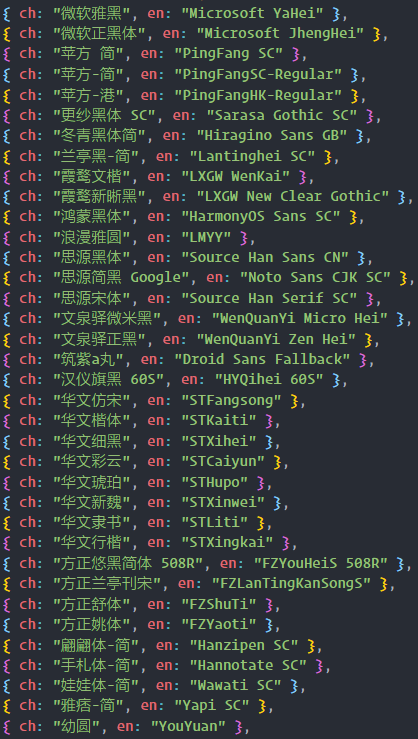
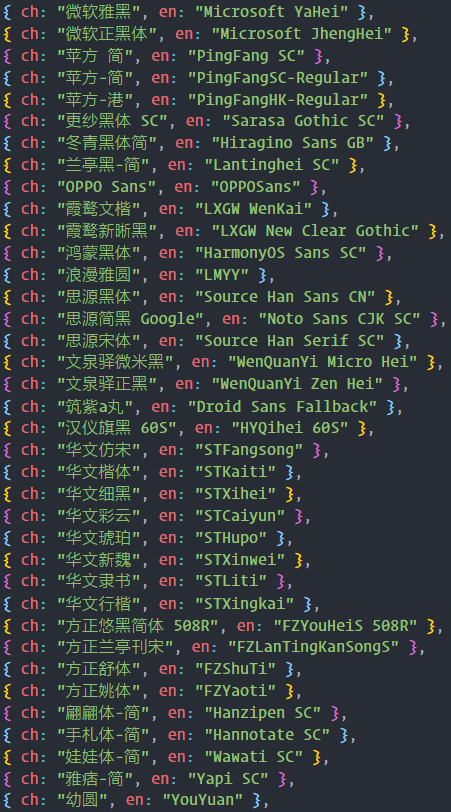
update

Changed region(s): [[0.0, 0.0, 0.9952, 0.9959]]

diff --git a/Font Rendering.user.js b/Font Rendering.user.js
@@ -4,7 +4,7 @@
 // @name:zh           字体渲染（自用脚本）
 // @name:zh-TW        字體渲染（自用腳本）
 // @name:en           Font Rendering (Customized)
-// @version           2021.07.30.1
+// @version           2021.08.03.1
 // @author            F9y4ng
 // @description       让每个页面的字体变得有质感，默认使用微软雅黑字体，亦可自定义设置多种中文字体，附加字体描边、字体重写、字体阴影、字体平滑、对特殊样式元素的过滤和许可等效果，脚本菜单中可使用设置界面进行参数设置，亦可对某域名下所有页面进行排除渲染。
 // @description:zh    让每个页面的字体变得有质感，默认使用微软雅黑字体，亦可自定义设置多种中文字体，附加字体描边、字体重写、字体阴影、字体平滑、对特殊样式元素的过滤和许可等效果，脚本菜单中可使用设置界面进行参数设置，亦可对某域名下所有页面进行排除渲染。
@@ -24,6 +24,7 @@
 // @grant           GM.setValue
 // @grant           GM_deleteValue
 // @grant           GM.deleteValue
+// @compatible      edge 兼容TamperMonkey, ViolentMonkey
 // @compatible      Chrome 兼容TamperMonkey, ViolentMonkey
 // @compatible      Firefox 兼容Greasemonkey, TamperMonkey, ViolentMonkey
 // @compatible      Opera 兼容TamperMonkey, ViolentMonkey
@@ -1521,6 +1522,7 @@
     { ch: "更纱黑体 SC", en: "Sarasa Gothic SC" },
     { ch: "冬青黑体简", en: "Hiragino Sans GB" },
     { ch: "兰亭黑-简", en: "Lantinghei SC" },
+    { ch: "OPPO Sans", en: "OPPOSans" },
     { ch: "霞鹜文楷", en: "LXGW WenKai" },
     { ch: "霞鹜新晰黑", en: "LXGW New Clear Gothic" },
     { ch: "鸿蒙黑体", en: "HarmonyOS Sans SC" },
@@ -1605,7 +1607,7 @@
     fontShadow: browser.versions.webKit ? 2.0 : 1.5,
     shadowColor: "#7B7B7B",
     fontSmooth: true,
-    fontCSS: `:not([class*='fa']):not([class*='icon']):not([class*='logo']):not([class*='code'])`,
+    fontCSS: `:not(input):not(textarea):not(button):not(em):not(i):not([class*='fa']):not([class*='icon']):not([class*='logo']):not([class*='code'])`,
     fontEx: `* pre,* pre *,* code,* code *,* input,* button,* textarea,* kbd,* i,* em`,
   };
   const root = `\u8ab1\u004a\u0056\u0069\u0059\u7409\u67d3\u5b7a\u80ba\u0070\u0032\u004f\u64d3\u0030\u8151\u0074\u5c80\u5b9a\u81ba\u0065`;
@@ -1668,7 +1670,7 @@
     } else {
       debug("//-> %cGood data status", "color:green");
     }
-    // Get Promise Value
+
     let fonts = await GMgetValue("_fonts_set_");
     let exSite = await GMgetValue("_Exclude_site_");
     let domains = await GMgetValue("_domains_fonts_set_");
@@ -1802,6 +1804,10 @@
     if (!isNaN(stroke_r) && stroke_r > 0 && stroke_r <= 1.0) {
       stroke = `text-stroke:${stroke_r}px currentcolor;-webkit-text-stroke:${stroke_r}px currentcolor;`;
     }
+    let selection = "";
+    if (stroke) {
+      selection = `::selection{color:#ffffff!important;background:#338fff!important}`;
+    }
     let smoothing = "";
     const smooth_i = CONST.fontSmooth;
     if (smooth_i) {
@@ -1833,7 +1839,7 @@
     const cssfun = CONST.fontCSS;
     let tshadow = "";
     if (defCon.siteIndex === undefined) {
-      tshadow = `${codeFont}${cssfun}{${shadow}${stroke}${smoothing}${fontfamily}}${fontfaces}${exclude}`;
+      tshadow = `${codeFont}${selection}${cssfun}{${shadow}${stroke}${smoothing}${fontfamily}}${fontfaces}${exclude}`;
     }
     const fontStyle_db = `.${defCon.class.db}{max-width:420px;color:#444;z-index:999999992;border:2px solid #efefef}.${defCon.class.db} *{line-height:1.5!important;font-family:"Microsoft YaHei",sans-serif!important;text-stroke:initial!important;-webkit-text-stroke:initial!important;text-shadow:0 0 1px #7b7b7b!important}.${defCon.class.db}{display:block;overflow:hidden;position:fixed;top:45%;right:-200px;-webkit-border-radius:6px;border-radius:6px;width:100%;background:#fff;-webkit-box-shadow:0 0 10px 0 rgba(0,0,0,.3);box-shadow:0 0 10px 0 rgba(0,0,0,.3);transition:opacity .3s;transform:translate(-50%,-50%)}.${defCon.class.db} .${defCon.class.dbt},.${defCon.class.dbb},.${defCon.class.dbb}:hover{text-shadow:initial!important;-webkit-text-stroke:initial!important;text-stroke:initial!important}.${defCon.class.dbbf},.${defCon.class.dbbf}:hover{background:#d93223;color:#fff!important;border:1px solid #d93223;-webkit-border-radius:6px;border-radius:6px;font-size:14px!important}.${defCon.class.dbbt},.${defCon.class.dbbt}:hover{background:#038c5a;color:#fff!important;border:1px solid #038c5a;-webkit-border-radius:6px;border-radius:6px;font-size:14px!important}.${defCon.class.dbbn},.${defCon.class.dbbn}:hover{background:#777;color:#fff!important;border:1px solid #777;-webkit-border-radius:6px;border-radius:6px;font-size:14px!important}.${defCon.class.dbm}{color:#444;padding:10px;margin:5px;font-size:16px;font-weight:300;text-align:left}.${defCon.class.dbm} p{line-height:160%;margin:5px 0;text-indent:0em!important;font-size:16px;font-weight:400;text-align:left}.${defCon.class.dbm} ul{list-style:none;margin: 5px 0 0 15px;padding:2px;font:italic 14px/140% "Microsoft YaHei";color:grey}.${defCon.class.dbm} li{list-style-type:square;}.${defCon.class.dbt}{background:#efefef;margin-top:0;padding:12px;font-size:20px;font-weight:700;text-align:left;width:100%}.${defCon.class.dbb}{display:inline-block;margin:0 1%;-webkit-border-radius:2px;border-radius:4px;padding:8px 12px;min-width:12%;font-weight:400;text-align:center;letter-spacing:0;transition:opacity .5s;cursor:pointer;-webkit-box-sizing:content-box;box-sizing:content-box}.${defCon.class.dbb}:hover{color:#fff;opacity:.8;font-weight:900;text-decoration:none!important}.${defCon.class.dbbc}{text-align:right;padding:2.5%;background:#efefef;color:#fff}.${defCon.class.anim}{-webkit-animation:jiggle 1.8s ease-in infinite;animation:jiggle 1.8s ease-in infinite;border:2px solid crimson!important;background:crimson!important}@keyframes jiggle{48%,62%{transform:scale(1,1)}50%{transform:scale(1.1,.9)}56%{transform:scale(.9,1.1) translate(0,-5px)}59%{transform:scale(1,1) translate(0,-3px)}}#${defCon.id.bk},#${defCon.id.pv},#${defCon.id.mps},${defCon.id.feedback}{padding:2px 10px;height:40px;width:max-content;min-width:auto}`;
     const fontStyle_container = `#${defCon.id.rndId}{width:100%;height:100%;background:transparent;position:fixed;top:0;left:0;z-index:999999991}body #${defCon.id.container}{position:fixed;top:10px;right:24px;-webkit-border-radius:6px;border-radius:6px;background:#f0f6ff!important;-webkit-box-sizing:content-box;box-sizing:content-box}#${defCon.id.container}{transform:scale3d(1,1,1);width:auto;overflow-y:auto;overflow-x:hidden;min-height:10%;max-height:calc(100% - 20px);z-index:999999;padding:3px 8px;text-align:left;color:#333;font-size:16px;font-weight:900;-webkit-transition:all .1s ease-in;transition:all .1s ease-in;scrollbar-color:#369 rgba(0,0,0,.25);scrollbar-width:thin}#${defCon.id.container}::-webkit-scrollbar{width:10px;height:1px}#${defCon.id.container}::-webkit-scrollbar-thumb{border-radius:10px;box-shadow:inset 0 0 5px #67a5df;background:#369}#${defCon.id.container}::-webkit-scrollbar-track{box-shadow:inset 0 0 5px #67a5df;border-radius:10px;background:#ededed}#${defCon.id.container} *{line-height:1.5!important;font-size:16px;font-weight:700;font-family:"Microsoft YaHei",sans-serif!important;text-shadow:initial!important;-webkit-text-stroke:initial!important;text-stroke:initial!important}#${defCon.id.container} fieldset{border:2px groove #67a5df;-webkit-border-radius:10px;border-radius:10px;padding:4px 9px;margin:2px;background:#f0f6ff!important;display:block;width:auto;height:auto;min-height:500px}#${defCon.id.container} legend{line-height:20px;padding:0 8px;border:0!important;margin-bottom:0;font-size:16px;font-weight:700;font-family:"Microsoft YaHei",sans-serif!important;background:#f0f6ff!important;-webkit-box-sizing:content-box;box-sizing:content-box;width:auto!important;min-width:185px!important}#${defCon.id.container} fieldset ul{padding:0;margin:0;background:#f0f6ff!important}#${defCon.id.container} ul li{list-style:none;margin:3px 0;-webkit-box-sizing:content-box;box-sizing:content-box;border:none;float:none;background:#f0f6ff!important;cursor:default}#${defCon.id.container} .${defCon.class.help}{width:24px;height:24px;fill:#67a5df;overflow:hidden;}#${defCon.id.container} .${defCon.class.title} .${defCon.class.guide}{display:inline-block;position:fixed;cursor:pointer}@keyframes rotation{from{-webkit-transform:rotate(0)}to{-webkit-transform:rotate(360deg)}}.${defCon.class.title} .${defCon.class.rotation}{width:24px;height:24px;top:auto;right:auto;bottom:auto;left:auto;transform-origin:center 50%;-webkit-transform:rotate(360deg);-webkit-animation:rotation 5s linear infinite;-o-animation:rotation 5s linear infinite;animation:rotation 5s linear infinite}#${defCon.id.fontList}{padding:2px 10px 4px 6px;min-height:75px}#${defCon.id.fontFace},#${defCon.id.fontSmooth}{padding:2px 10px;height:40px;width:calc(100% - 18px);min-width:auto;display:flex;align-items:center;justify-content:space-between}#${defCon.id.shadowColor}{padding:2px 10px;min-height:45px;margin:4px;width:max-content}#${defCon.id.shadowColor} *{-webkit-box-sizing:content-box;box-sizing:content-box}#${defCon.id.cps}{float:left;display:block;margin:0}#${defCon.id.shadowColor} .${defCon.class.colorPicker}{width:32px;height:30px;cursor:pointer;position:relative;border:2px solid #181a25;-webkit-border-radius:4px;border-radius:4px;float:left;display:inline-block}#${defCon.id.shadowColor} .${defCon.class.colorPicker2}{display:inline-block;width:auto;margin:0 0 0 5px}#${defCon.id.shadowColor} .${defCon.class.colorPicker2} #${defCon.id.color}{width:135px;height:32px;text-indent:0;font-size:18px;font-weight:400;background:#fafafa;-webkit-box-sizing:content-box;box-sizing:content-box;font-family:Impact,"Courier New",sans-serif!important;color:#333;border:#67a5df 2px solid;-webkit-border-radius:4px;border-radius:4px;display:inline-block;padding:0;margin:0;text-align:center}#${defCon.id.fontShadow}{padding:2px 10px;height:60px}#${defCon.id.fontStroke}{padding:2px 10px;height:60px}#${defCon.id.submit}{padding:2px 10px;height:40px}#${defCon.id.submit} button{background-image:initial;background-color:#67a5df;color:#fff;padding:5px 10px;font-size:14px;font-weight:600;cursor:pointer;border:2px solid #6ba7e0;-webkit-border-radius:6px;border-radius:6px;width:auto;font-family:"Microsoft YaHei",sans-serif!important}#${defCon.id.backup}{margin:0 10px 0 0}#${defCon.id.backup}, #${defCon.id.files}{display:none}#${defCon.id.submit} .${defCon.class.cancel},#${defCon.id.submit} .${defCon.class.reset}{float:left;margin-right:10px}#${defCon.id.submit} .${defCon.class.submit}{float:right}#${defCon.id.fontCSS},#${defCon.id.fontEx}{padding:2px 10px;min-height:110px}#${defCon.id.fontEx} textarea{background:#fafafa}#${defCon.id.fontCSS} textarea,#${defCon.id.fontEx} textarea{min-width:calc(100% - 15px);max-width:calc(100% - 15px)!important;min-height:60px;line-height:140%;resize:none;border:2px solid #67a5df;-webkit-border-radius:6px;border-radius:6px;-webkit-box-sizing:content-box;box-sizing:content-box;padding:5px;font:bold 14px/140% "Roboto Mono",Monaco,"Courier New",sans-serif!important;color:#0b5b9c;scrollbar-color:#369 rgba(0,0,0,.25);scrollbar-width:thin}#${defCon.id.fontCSS} textarea::-webkit-scrollbar{width:10px;height:1px}#${defCon.id.fontCSS} textarea::-webkit-scrollbar-thumb{border-radius:10px;box-shadow:inset 0 0 5px #67a5df;background:#369}#${defCon.id.fontCSS} textarea::-webkit-scrollbar-track{box-shadow:inset 0 0 5px rgba(0,0,0,.2);border-radius:10px;background:#ededed}#${defCon.id.fontEx} textarea::-webkit-scrollbar{width:10px;height:1px}#${defCon.id.fontEx} textarea::-webkit-scrollbar-thumb{border-radius:10px;box-shadow:inset 0 0 5px #67a5df;background:#369}#${defCon.id.fontEx} textarea::-webkit-scrollbar-track{box-shadow:inset 0 0 5px #67a5df;border-radius:10px;background:#ededed}#${defCon.id.fontList} .${defCon.class.selector} a{font-weight:400;color:#111;text-decoration:none}#${defCon.id.fontList} .${defCon.class.label}{display:block;float:left;margin:2px 5px 2px 0;-webkit-box-sizing:content-box;box-sizing:content-box;border:initial;-webkit-border-radius:2px;border-radius:2px;padding:2px 0;height:24px;font-weight:400;line-height:20px;color:#fff;background:#67a5df}#${defCon.id.fontList} .${defCon.class.label} span{color:#fff;font-size:16px;font-weight:normal;padding:5px;background:#67a5df}#${defCon.id.fontList} .${defCon.class.close}{padding:5px!important;color:#fff;background:#67a5df;-webkit-box-sizing:content-box;box-sizing:content-box}#${defCon.id.fontList} .${defCon.class.close}:hover{-webkit-border-radius:2px;border-radius:2px;color:tomato;background-color:#366694}#${defCon.id.fontList} .${defCon.class.selectFontId}{width:auto}#${defCon.id.fontList} .${defCon.class.selectFontId} label{width:auto;display:block;margin:5px 0;color:#333;cursor:initial}#${defCon.id.fontList} .${defCon.class.selectFontId} input{-webkit-box-sizing:content-box;box-sizing:content-box;border:2px solid #67a5df;-webkit-border-radius:6px;border-radius:6px;padding:1px 23px!important;margin:0;width:calc(100% - 48px);max-width:calc(100% - 48px);height:36px!important;font-family:"Microsoft YaHei",sans-serif!important;font-size:16px;font-weight:700;text-indent:0;background:#fafafa;outline-color:#67a5df}#${defCon.id.fontList} .${defCon.class.selectFontId} input[disabled]{pointer-events:none!important}.${defCon.class.placeholder} input:-moz-placeholder{color:#369!important;font-family:"Microsoft YaHei",sans-serif!important;font-size:16px;font-weight:700;opacity:.65}.${defCon.class.placeholder}::-moz-placeholder{color:#369!important;font-family:"Microsoft YaHei",sans-serif!important;font-size:16px;font-weight:700;opacity:.65}.${defCon.class.placeholder}::-webkit-input-placeholder{color:#369!important;font-family:"Microsoft YaHei",sans-serif!important;font-size:16px;font-weight:700;opacity:.65}#${defCon.id.fontList} .${defCon.class.selectFontId} dl{overflow-x:hidden;position:fixed;z-index:1000;margin:8px 0 0 0;-webkit-box-sizing:content-box;box-sizing:content-box;border:2px solid #67a5df;-webkit-border-radius:4px;border-radius:4px;padding:4px 10px;width:auto;min-width:170px;max-width:252px;max-height:250px;font-size:18px;white-space:nowrap;background-color:#fff;scrollbar-color:#369 rgba(0,0,0,.25);scrollbar-width:thin}#${defCon.id.fontList} .${defCon.class.selectFontId} dl::-webkit-scrollbar{width:10px;height:1px}#${defCon.id.fontList} .${defCon.class.selectFontId} dl::-webkit-scrollbar-thumb{border-radius:10px;box-shadow:inset 0 0 5px #67a5df;background:#369}#${defCon.id.fontList} .${defCon.class.selectFontId} dl::-webkit-scrollbar-track{box-shadow:inset 0 0 5px #67a5df;border-radius:10px;background:#ededed}#${defCon.id.fontList} .${defCon.class.selectFontId} dl dd{margin:0 10px;padding:5px 0;font-weight:400;font-size:21px;min-width:135px}#${defCon.id.fontList} .${defCon.class.selectFontId} dl dd:hover{background-color:#67a5df;color:#fff}#${defCon.id.selector}{width:100%;max-width:100%}#${defCon.id.selector} label{display:block;cursor:initial;margin:0 0 4px 0;color:#333}#${defCon.id.selector} #${defCon.id.cleaner}{margin-left:5px;cursor:pointer}#${defCon.id.selector} #${defCon.id.cleaner}:hover{color:red}#${defCon.id.fontList} .${defCon.class.selector}{overflow-y:auto;scrollbar-color:#369 rgba(0,0,0,.25);scrollbar-width:thin;-webkit-box-sizing:content-box;box-sizing:content-box;border:2px solid #67a5df;-webkit-border-radius:6px;border-radius:6px;padding:6px;width:95%;max-width:267px;max-height:60px}#${defCon.id.fontList} .${defCon.class.selector}::-webkit-scrollbar{width:10px;height:1px}#${defCon.id.fontList} .${defCon.class.selector}::-webkit-scrollbar-thumb{border-radius:10px;box-shadow:inset 0 0 5px #67a5df;background:#369}#${defCon.id.fontList} .${defCon.class.selector}::-webkit-scrollbar-track{box-shadow:inset 0 0 5px #67a5df;border-radius:10px;background:#ededed}.${defCon.class.checkbox}{display:none!important}.${defCon.class.checkbox}+label{padding:11px 9px;margin:0;border-radius:7px;display:inline-block;position:relative;background:#f7836d;width:58px;height:10px;box-shadow:inset 0 0 20px rgba(0,0,0,.1),0 0 10px rgba(245,146,146,.4);-webkit-box-sizing:content-box;box-sizing:content-box;word-wrap:normal!important}.${defCon.class.checkbox}+label::before{position:absolute;top:0;left:0;z-index:99;-webkit-border-radius:7px;border-radius:7px;width:24px;height:32px;color:#fff;background:#fff;box-shadow:0 0 1px rgba(0,0,0,.6);content:" "}.${defCon.class.checkbox}+label::after{position:absolute;top:0;left:28px;-webkit-box-sizing:content-box;box-sizing:content-box;-webkit-border-radius:100px;border-radius:100px;padding:5px;font-size:1em;font-weight:700;color:#fff;content:"OFF"}.${defCon.class.checkbox}:checked+label{margin:0;-webkit-box-sizing:content-box;box-sizing:content-box;background:#67a5df!important;box-shadow:inset 0 0 20px rgba(0,0,0,.1),0 0 10px rgba(146,196,245,.4)}.${defCon.class.checkbox}:checked+label::after{content:"ON";left:10px;-webkit-box-sizing:content-box;box-sizing:content-box}.${defCon.class.checkbox}:checked+label::before{content:" ";position:absolute;z-index:99;left:52px;-webkit-box-sizing:content-box;box-sizing:content-box}#${defCon.id.fface} label,#${defCon.id.fface}+label::after,#${defCon.id.fface}+label::before,#${defCon.id.smooth} label,#${defCon.id.smooth}+label::after,#${defCon.id.smooth}+label::before{-webkit-transition:all .1s ease-in;transition:all .1s ease-in;-webkit-box-sizing:content-box;box-sizing:content-box}#${defCon.id.fontShadow} #${defCon.id.shadowSize},#${defCon.id.fontStroke} #${defCon.id.strokeSize}{color:#111;width:56px;text-indent:0;margin-right:10px!important;height:32px;font-size:17px;font-weight:400;font-family:Impact,"Courier New",sans-serif!important;border:#67a5df 2px solid;-webkit-border-radius:4px;border-radius:4px;margin-right:2px;text-align:center;-webkit-box-sizing:content-box;box-sizing:content-box;padding:0;background:#fafafa}.${defCon.class.Switch}{-webkit-box-sizing:content-box;box-sizing:content-box;display:inline-block;float:right;margin-right:4px;padding:0 6px;border:2px double #67a5df;color:#0A68C1;-webkit-border-radius:4px;border-radius:4px;}.${defCon.class.readonly}{background:linear-gradient(45deg,#ffe9e9 0,#ffe9e9 25%,transparent 25%,transparent 50%,#ffe9e9 50%,#ffe9e9 75%,transparent 75%,transparent)!important;background-size:50px 50px!important;background-color:#fff7f7!important}.${defCon.class.notreadonly}{background:linear-gradient(45deg,#e9ffe9 0,#e9ffe9 25%,transparent 25%,transparent 50%,#e9ffe9 50%,#e9ffe9 75%,transparent 75%,transparent);background-size:50px 50px;background-color:#f7fff7}`;
@@ -2342,6 +2348,7 @@
               try {
                 shadow = fshadow > 0 && fshadow <= 8 ? `text-shadow:0 0 ${fshadow}px ${fscolor};` : "";
                 stroke = fstrock > 0 && fstrock <= 1.0 ? `text-stroke:${fstrock}px currentcolor;-webkit-text-stroke:${fstrock}px currentcolor;` : "";
+                selection = stroke ? `::selection{color:#ffffff!important;background:#338fff!important}` : ``;
                 smoothing = smooth ? `-webkit-font-smoothing:antialiased;-moz-osx-font-smoothing:grayscale;text-rendering:optimizeLegibility;` : "";
                 fontfamily = fontface ? `font-family:${fontselect};` : "";
                 refont = fontselect.split(",")[0] ? fontselect.split(",")[0].replace(/"|'/g, "") : "";
@@ -2351,7 +2358,7 @@
                     : ``
                   : "";
                 exclude = fontex ? `${fontex}{text-stroke:initial!important;-webkit-text-stroke:initial!important;text-shadow:initial!important}` : "";
-                tshadow = `${codeFont}${cssfun}{${shadow}${stroke}${smoothing}${fontfamily}}${fontfaces}${exclude}`;
+                tshadow = `${codeFont}${selection}${cssfun}{${shadow}${stroke}${smoothing}${fontfamily}}${fontfaces}${exclude}`;
                 addStyle("TS", tshadow, `${defCon.class.rndStyle}`, document.head, true);
                 document.querySelectorAll("iframe").forEach(items => {
                   const h = items.contentWindow;

diff --git a/Google & Baidu Switcher.user.js b/Google & Baidu Switcher.user.js
@@ -4,7 +4,7 @@
 // @name:en         Google & baidu & Bing Switcher (ALL in One)
 // @name:zh         谷歌、百度、必应的搜索引擎跳转工具
 // @name:zh-TW      谷歌、百度、必應的搜索引擎跳轉工具
-// @version         3.4.20210726.1
+// @version         3.4.20210803.1
 // @author          F9y4ng
 // @description         谷歌、百度、必应的搜索引擎跳转工具，脚本默认自动更新检测，可在菜单自定义设置必应按钮，搜索引擎跳转的最佳体验。
 // @description:en      Google, Baidu and Bing search engine tool, Automatically updated and detected by default, The Bing button can be customized.
@@ -23,11 +23,12 @@
 // @exclude         *://*.google.*/sorry*
 // @exclude         *://*.google.*/url*
 // @exclude         *://www.baidu.com/link*
+// @compatible      edge 兼容TamperMonkey, ViolentMonkey
 // @compatible      Chrome 兼容TamperMonkey, ViolentMonkey
 // @compatible      Firefox 兼容Greasemonkey4.0+, TamperMonkey, ViolentMonkey
 // @compatible      Opera 兼容TamperMonkey, ViolentMonkey
 // @compatible      Safari 兼容Tampermonkey • Safari
-// @note            增加Google国际站跳转的菜单选项。\n修正几处bugs，优化代码。
+// @note            修正bugs，优化代码。
 // @grant           GM_info
 // @grant           GM_registerMenuCommand
 // @grant           GM.registerMenuCommand

diff --git a/Google & Baidu Switcher.meta.js b/Google & Baidu Switcher.meta.js
@@ -3,8 +3,8 @@
 // @name:en         Google & baidu & Bing Switcher (ALL in One)
 // @name:zh         谷歌、百度、必应的搜索引擎跳转工具
 // @name:zh-TW      谷歌、百度、必應的搜索引擎跳轉工具
-// @version     3.4.20210726.1
+// @version     3.4.20210803.1
 // @author      F9y4ng
 // @namespace   https://openuserjs.org/scripts/f9y4ng/Google_baidu_Switcher_(ALL_in_One)
-// @note        增加Google国际站跳转的菜单选项。\n修正几处bugs，优化代码。
+// @note        修正bugs，优化代码。
 // ==/UserScript==

diff --git a/Font Rendering.meta.js b/Font Rendering.meta.js
@@ -3,7 +3,7 @@
 // @name:zh       字体渲染（自用脚本）
 // @name:zh-TW    字體渲染（自用腳本）
 // @name:en       Font Rendering (Customized)
-// @version       2021.07.30.1
+// @version       2021.08.03.1
 // @author        F9y4ng
 // @namespace     https://openuserjs.org/scripts/f9y4ng/Font_Rendering_(Customized)
 // ==/UserScript==

diff --git a/README.md b/README.md
@@ -1,10 +1,12 @@
-# `GreasyFork Scripts`
+# **GreasyFork Scripts**
 
-- ## **Font Rendering.user.js** (`version 2021.07.30.1`)
+[![LICENSE](https://img.shields.io/badge/License-GPL--3.0--only-blue.svg?style=for-the-badge&logo=github "LICENSE")](https://github.com/F9y4ng/GreasyFork-Scripts/blob/master/LICENSE)  [![LAST COMMIT](https://img.shields.io/github/last-commit/F9y4ng/GreasyFork-Scripts?color=blue&logo=github&style=for-the-badge "LAST COMMIT")](https://github.com/F9y4ng/GreasyFork-Scripts/commits/master)  [![ISSUES](https://img.shields.io/github/issues/F9y4ng/GreasyFork-Scripts?logo=github&style=for-the-badge "ISSUES")](https://github.com/F9y4ng/GreasyFork-Scripts/issues)  [![STARS](https://img.shields.io/github/stars/F9y4ng/GreasyFork-Scripts?color=brightgreen&logo=github&style=for-the-badge "STARS")](https://github.com/login?return_to=%2FF9y4ng%2FGreasyFork-Scripts)
+
+- ## **Font Rendering.user.js** (`version 2021.08.03.1`)
 
   简介：让每个页面的字体变得有质感，默认使用微软雅黑字体，亦可自定义设置多种中文字体，附加字体描边、字体重写、字体阴影、字体平滑、对特殊样式元素的过滤和许可等效果，脚本菜单中可使用设置界面进行参数设置，亦可对某域名下所有页面进行排除渲染。
 
-  > `version 2021.07.30.1`
+  > `version 2021.08.03.1`
 
   重大版本更新，请使用前仔细查看 [**脚本使用说明**](https://openuserjs.org/scripts/t3xtf0rm4tgmail.com/%E5%AD%97%E4%BD%93%E6%B8%B2%E6%9F%93%EF%BC%88%E8%87%AA%E7%94%A8%E8%84%9A%E6%9C%AC%EF%BC%89)。```New```
 
@@ -13,10 +15,9 @@
   ```!!! 请勿使用来源未知的备份文件，以防跨站脚本攻击 !!!```
 
   ```text
-  @ 优化跨域检测，防止因页面跨域而造成全部渲染失效。
-  @ 优化重置操作的新流程，提高体验性。
-  @ 修正字体检测在部分网站失效的问题，修正字体名称错误。
-  @ 修正CSS样式错误，优化代码。
+  + 新增字体表新字体 OPPO Sans。
+  @ 修正选择文字时文字发虚的问题。
+  @ 修正bugs，优化代码。
   ```
 
   > [关于字体的添加](#)
@@ -28,17 +29,16 @@
   >
   > 新版脚本中内置了默认的字体渲染样式，该样式为我本地计算机的配置，可能并不能与你的计算机应用相同的配置参数，所以，首次使用时，如果出现渲染效果没有达到理想状态，属于正常情况。请你根据**自有显示器的配置及设置**的情况，通过[脚本配置界面](#脚本设置界面)修正相关的参数来达到最佳的显示效果。如在使用过程中遇到错误或使用问题，请到 [@Github](https://github.com/F9y4ng/GreasyFork-Scripts/issues) 或 [@Greasyfork](https://greasyfork.org/scripts/416688/feedback) 给我留言反馈。
 
-- ## **Google & Baidu Switcher.user.js** (`version 3.4.20210726.1`)
+- ## **Google & Baidu Switcher.user.js** (`version 3.4.20210803.1`)
 
   简介：最新版本的集合谷歌、百度、必应的搜索引擎跳转工具，必应跳转可在菜单进行自定义设置。此版本无外部脚本调用，更快速和准确的进行按钮定位，显示速度大大提升。如有异常请清空浏览器缓存，再次载入使用，感谢使用！
 
-  > `version 3.4.20210726.1`
+  > `version 3.4.20210803.1`
 
   重大版本更新，请使用前仔细查看 [**脚本使用说明**](https://openuserjs.org/scripts/t3xtf0rm4tgmail.com/Google_baidu_Switcher_(ALL_in_One))。```New```
 
   ```text
-  + 增加Google国际站跳转的菜单选项。
-  @ 修正几处bugs，优化代码。
+  @ 修正bugs，优化代码。
   ```
 
   > [**重要说明**](#)
